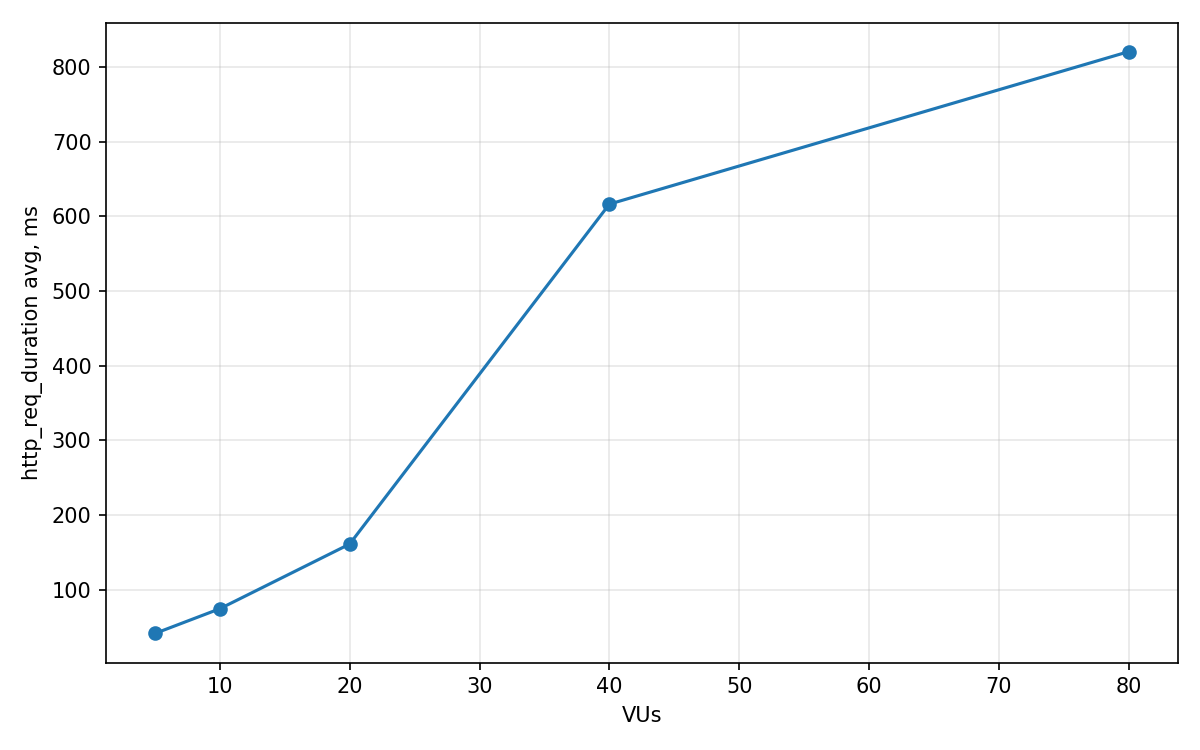
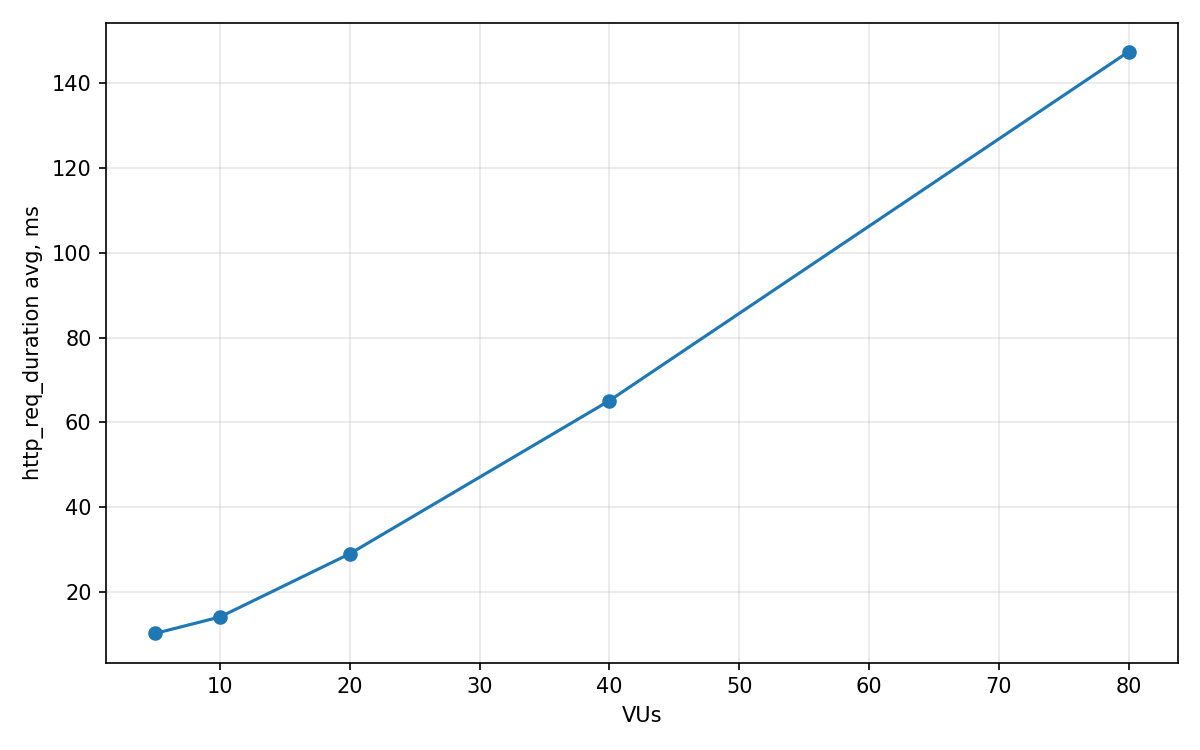
LAB4 (k6): скрипт run_sweep_and_plot.py, обновлены load-sweep и plot, график avg_vs_vus.png
Made-with: Cursor

diff --git a/zil/k6/load-sweep.js b/zil/k6/load-sweep.js
@@ -2,6 +2,10 @@
  * Тот же смысл, что load.js: два параллельных пула (POST и GET), но constant-vus — для графика avg vs VU.
  * TARGET_VUS — желаемая суммарная нагрузка; пополам делим между пулами (при нечётном — 1 VU в одном пуле больше).
  *
+ * Все точки + график одной командой (summary-*.json и PNG перезаписываются при каждом запуске):
+ *   python run_sweep_and_plot.py
+ *
+ * Одна точка вручную:
  *   k6 run -e TARGET_VUS=10 -e DURATION=45s --summary-export summary-10.json load-sweep.js
  */
 import http from 'k6/http';

diff --git a/zil/k6/run_sweep_and_plot.py b/zil/k6/run_sweep_and_plot.py
@@ -1,0 +1,115 @@
+#!/usr/bin/env python3
+"""
+LAB4: подряд запускает k6 load-sweep для заданных TARGET_VU, затем plot.py.
+
+При каждом запуске:
+  - k6 с --summary-export ПЕРЕЗАПИСЫВАЕТ summary-<vu>.json (старые данные в файле не остаются);
+  - plot.py ПЕРЕЗАПИСЫВАЕТ картинку --out (по умолчанию avg_vs_vus.png).
+
+Требуется: k6 в PATH, Python с matplotlib (для plot.py).
+
+Пример (из папки zil/k6):
+  python run_sweep_and_plot.py
+  python run_sweep_and_plot.py --duration 30s
+  python run_sweep_and_plot.py --skip-k6
+"""
+
+from __future__ import annotations
+
+import argparse
+import os
+import subprocess
+import sys
+from pathlib import Path
+
+K6_DIR = Path(__file__).resolve().parent
+LOAD_SWEEP = K6_DIR / "load-sweep.js"
+PLOT_PY = K6_DIR / "plot.py"
+
+DEFAULT_VUS = (5, 10, 20, 40, 80)
+DEFAULT_DURATION = "45s"
+DEFAULT_PNG = "avg_vs_vus.png"
+
+
+def main() -> None:
+    p = argparse.ArgumentParser(
+        description="k6: все точки load-sweep + график avg vs VU (файлы перезаписываются)"
+    )
+    p.add_argument(
+        "--duration",
+        default=DEFAULT_DURATION,
+        help=f"длительность constant-vu на точку (по умолчанию {DEFAULT_DURATION})",
+    )
+    p.add_argument(
+        "--out",
+        default=DEFAULT_PNG,
+        help=f"имя PNG в папке k6 (по умолчанию {DEFAULT_PNG})",
+    )
+    p.add_argument(
+        "--base-url",
+        default=None,
+        help="база API, напр. http://localhost:8083 (как в load-sweep.js)",
+    )
+    p.add_argument(
+        "--vus",
+        type=int,
+        nargs="+",
+        default=list(DEFAULT_VUS),
+        metavar="N",
+        help="точки нагрузки (по умолчанию: 5 10 20 40 80)",
+    )
+    p.add_argument(
+        "--skip-k6",
+        action="store_true",
+        help="не запускать k6, только пересобрать график из уже существующих summary-*.json",
+    )
+    args = p.parse_args()
+
+    if not LOAD_SWEEP.is_file():
+        sys.exit(f"Нет файла {LOAD_SWEEP}")
+    if not PLOT_PY.is_file():
+        sys.exit(f"Нет файла {PLOT_PY}")
+
+    env = {**os.environ}
+    if args.base_url:
+        env["BASE_URL"] = args.base_url
+
+    summary_paths: list[Path] = []
+    for vu in args.vus:
+        out_json = K6_DIR / f"summary-{vu}.json"
+        summary_paths.append(out_json)
+        if args.skip_k6:
+            if not out_json.is_file():
+                sys.exit(
+                    f"С --skip-k6 нужен файл {out_json.name}. Сначала уберите --skip-k6."
+                )
+            continue
+        # k6 при успешном завершении перезаписывает out_json целиком
+        cmd = [
+            "k6",
+            "run",
+            "-e",
+            f"TARGET_VUS={vu}",
+            "-e",
+            f"DURATION={args.duration}",
+            "--summary-export",
+            str(out_json),
+            str(LOAD_SWEEP),
+        ]
+        print(f"[k6] VU={vu} -> {out_json.name}", flush=True)
+        r = subprocess.run(cmd, cwd=K6_DIR, env=env)
+        if r.returncode != 0:
+            sys.exit(r.returncode)
+
+    plot_out = K6_DIR / args.out
+    plot_args: list[str] = [sys.executable, str(PLOT_PY), "--out", str(plot_out)]
+    for vu, sp in zip(args.vus, summary_paths):
+        plot_args.append(str(vu))
+        plot_args.append(str(sp))
+    print(f"[plot] -> {plot_out.name} (файл перезаписывается)", flush=True)
+    r = subprocess.run(plot_args, cwd=K6_DIR)
+    sys.exit(r.returncode)
+
+
+if __name__ == "__main__":
+    main()

diff --git a/zil/k6/plot.py b/zil/k6/plot.py
@@ -1,5 +1,8 @@
 #!/usr/bin/env python3
-"""LAB4: график avg(http_req_duration) vs VU из нескольких summary k6. Зависимость: pip install matplotlib"""
+"""LAB4: график avg(http_req_duration) vs VU из нескольких summary k6. Зависимость: pip install matplotlib
+
+Полный цикл (несколько прогонов k6 + этот скрипт): см. run_sweep_and_plot.py
+"""
 
 import argparse
 import json
